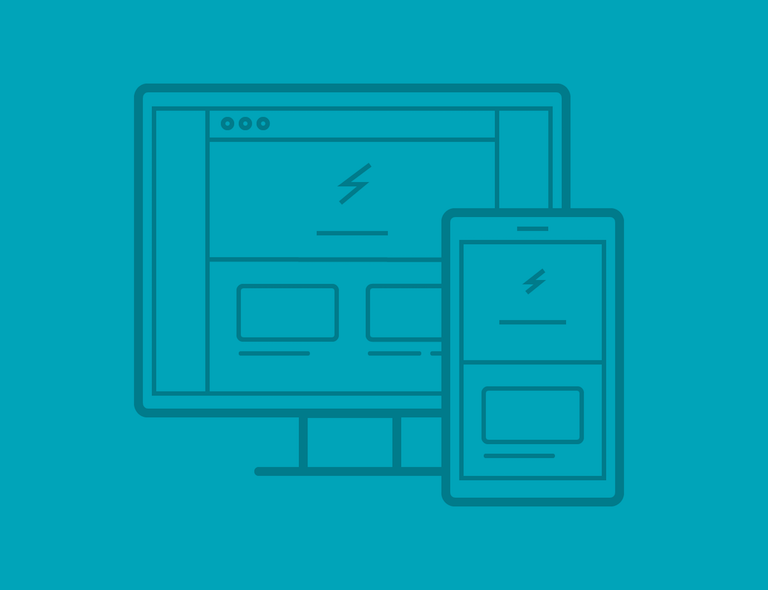
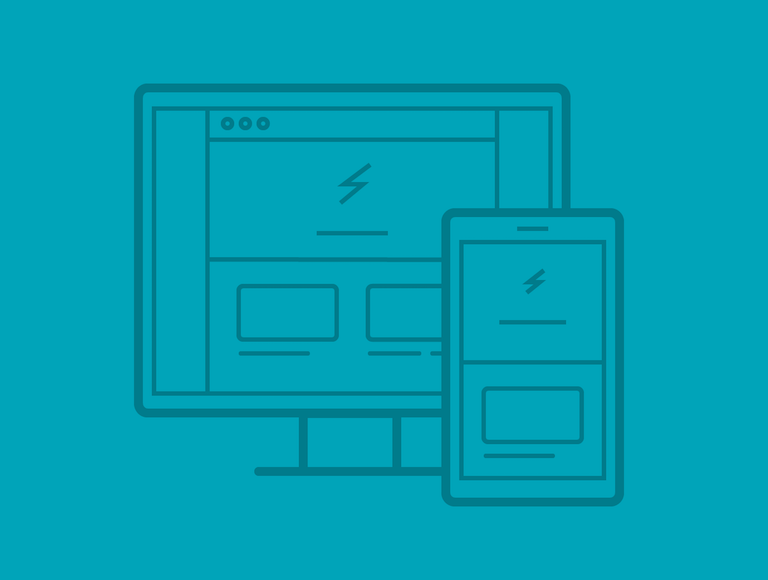
Update portfolio placeholders

diff --git a/_projects/item-catalog.md b/_projects/item-catalog.md
@@ -5,5 +5,5 @@ category: Web Apps
 title: "Item Catalog - Web App for Cataloging Assets"
 description: "Tech Rapport - Web App for Conference Planning"
 project-page: ''
-image: /assets/images/portfolio/item-catalog-portfolio-image.png
+image: /assets/images/portfolio/iphone-2.jpg
 ---
